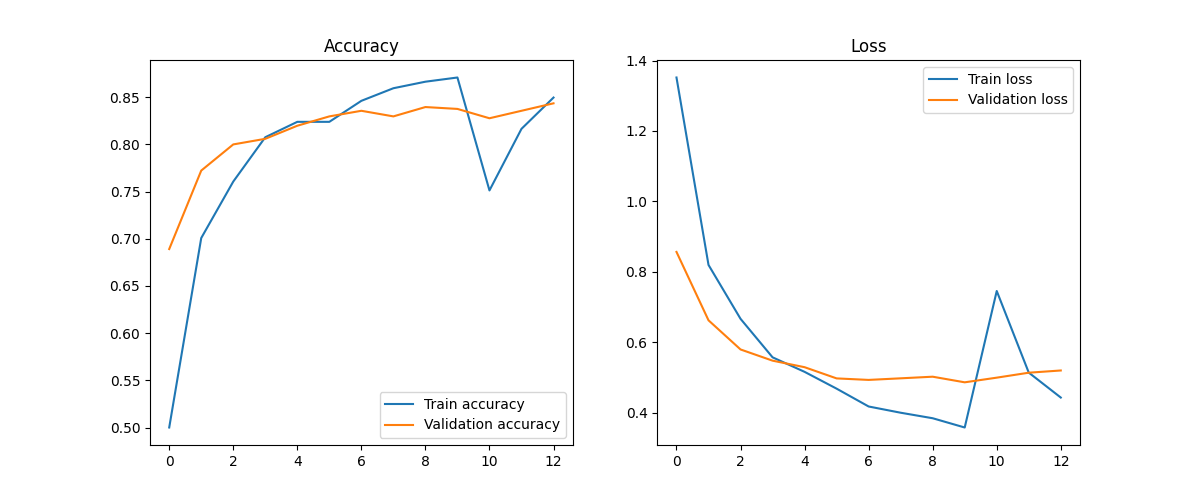
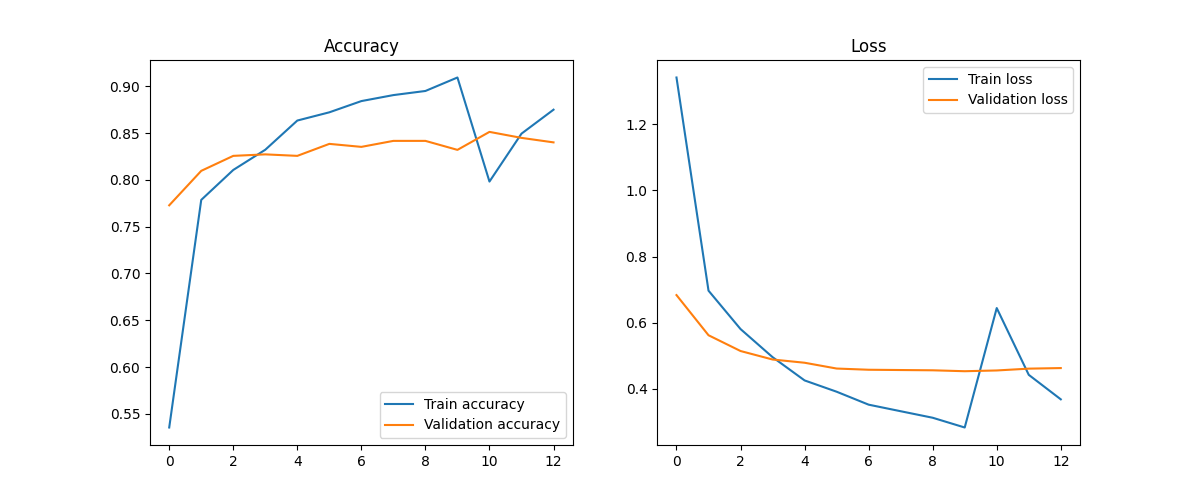
feat(model): ajout classe electronic (7 classes) - 85.1% accuracy

diff --git a/model/merge_dataset.py b/model/merge_dataset.py
@@ -1,0 +1,82 @@
+"""
+Jalon 1 (bis) - Fusion des datasets pour ajouter la classe "electronic".
+
+Ce script cree un nouveau dossier data/merged_dataset/ contenant 7 classes :
+cardboard, glass, metal, paper, plastic, trash, electronic
+
+- Les 6 premieres classes sont copiees depuis "Garbage classification"
+- La classe "electronic" regroupe TOUTES les images du dataset e-waste
+  (peu importe la sous-categorie d'origine : batterie, clavier, etc.)
+
+Usage :
+    python model/merge_dataset.py
+"""
+
+import os
+import shutil
+
+GARBAGE_DIR = "data/Garbage classification/Garbage classification"
+EWASTE_DIR = "data/modified-dataset"
+OUTPUT_DIR = "data/merged_dataset"
+
+GARBAGE_CLASSES = ["cardboard", "glass", "metal", "paper", "plastic", "trash"]
+
+
+def copy_garbage_classes():
+    """Copie les 6 classes existantes telles quelles."""
+    for class_name in GARBAGE_CLASSES:
+        src = os.path.join(GARBAGE_DIR, class_name)
+        dst = os.path.join(OUTPUT_DIR, class_name)
+        os.makedirs(dst, exist_ok=True)
+
+        count = 0
+        for fname in os.listdir(src):
+            src_file = os.path.join(src, fname)
+            if os.path.isfile(src_file):
+                shutil.copy2(src_file, os.path.join(dst, fname))
+                count += 1
+        print(f"  {class_name}: {count} images copiees")
+
+
+def copy_electronic_class():
+    """Regroupe toutes les sous-categories e-waste en une seule classe 'electronic'."""
+    dst = os.path.join(OUTPUT_DIR, "electronic")
+    os.makedirs(dst, exist_ok=True)
+
+    count = 0
+    for split in ["train", "test", "val"]:
+        split_dir = os.path.join(EWASTE_DIR, split)
+        if not os.path.isdir(split_dir):
+            continue
+
+        for sub_category in os.listdir(split_dir):
+            sub_dir = os.path.join(split_dir, sub_category)
+            if not os.path.isdir(sub_dir):
+                continue
+
+            for fname in os.listdir(sub_dir):
+                src_file = os.path.join(sub_dir, fname)
+                if os.path.isfile(src_file):
+                    # Prefixe pour eviter les collisions de noms entre sous-categories
+                    new_name = f"{split}_{sub_category}_{fname}".replace(" ", "_")
+                    shutil.copy2(src_file, os.path.join(dst, new_name))
+                    count += 1
+
+    print(f"  electronic: {count} images copiees (fusion de 10 sous-categories)")
+
+
+if __name__ == "__main__":
+    print("Fusion des datasets en cours...\n")
+    print("Copie des classes existantes (Garbage Classification) :")
+    copy_garbage_classes()
+
+    print("\nCopie et fusion de la classe electronic (E-Waste Dataset) :")
+    copy_electronic_class()
+
+    print(f"\nDataset fusionne cree dans : {OUTPUT_DIR}")
+    print("\nRecapitulatif final :")
+    for class_name in os.listdir(OUTPUT_DIR):
+        class_path = os.path.join(OUTPUT_DIR, class_name)
+        if os.path.isdir(class_path):
+            n = len(os.listdir(class_path))
+            print(f"  {class_name}: {n} images")

diff --git a/model/balance_electronic.py b/model/balance_electronic.py
@@ -1,0 +1,39 @@
+"""
+Jalon 1 (bis) - Sous-echantillonnage de la classe 'electronic'.
+
+La classe electronic a 3000 images contre 137-594 pour les autres classes.
+Ce script en garde aleatoirement un nombre limite (600 par defaut) pour
+eviter un desequilibre trop fort dans le dataset.
+
+Usage :
+    python model/balance_electronic.py
+"""
+
+import os
+import random
+
+ELECTRONIC_DIR = "data/merged_dataset/electronic"
+MAX_IMAGES = 600
+SEED = 42
+
+if __name__ == "__main__":
+    random.seed(SEED)
+
+    all_files = [
+        f for f in os.listdir(ELECTRONIC_DIR)
+        if os.path.isfile(os.path.join(ELECTRONIC_DIR, f))
+    ]
+    print(f"Nombre d'images actuel dans 'electronic' : {len(all_files)}")
+
+    if len(all_files) <= MAX_IMAGES:
+        print(f"Deja en dessous de {MAX_IMAGES}, rien a faire.")
+    else:
+        # On choisit aleatoirement les fichiers a GARDER
+        files_to_keep = set(random.sample(all_files, MAX_IMAGES))
+        files_to_remove = [f for f in all_files if f not in files_to_keep]
+
+        for fname in files_to_remove:
+            os.remove(os.path.join(ELECTRONIC_DIR, fname))
+
+        print(f"{len(files_to_remove)} images supprimees.")
+        print(f"Il reste {MAX_IMAGES} images dans 'electronic'.")

diff --git a/model/train.py b/model/train.py
@@ -21,7 +21,7 @@ import matplotlib.pyplot as plt
 # ---------------------------------------------------------------------------
 # 1. CONFIGURATION
 # ---------------------------------------------------------------------------
-DATA_DIR = "data/Garbage classification/Garbage classification"
+DATA_DIR = "data/merged_dataset"
 IMG_SIZE = (224, 224)          # taille standard attendue par MobileNetV2
 BATCH_SIZE = 32
 EPOCHS_HEAD = 10                # entrainement de la "tete" (couches ajoutees)